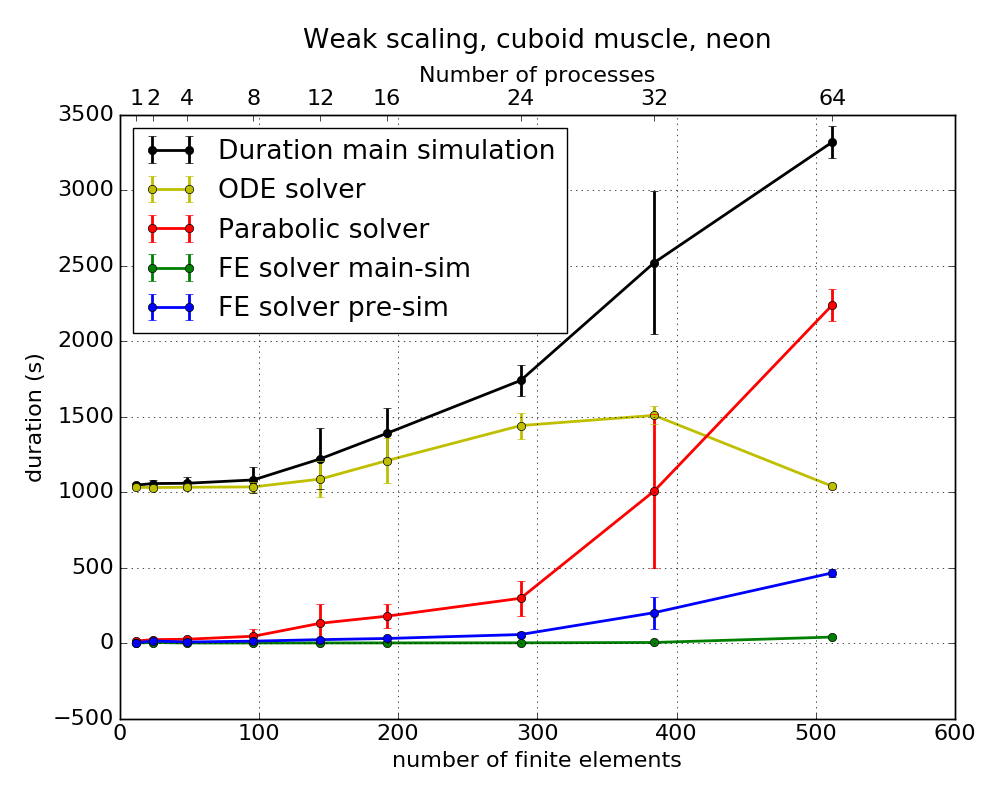
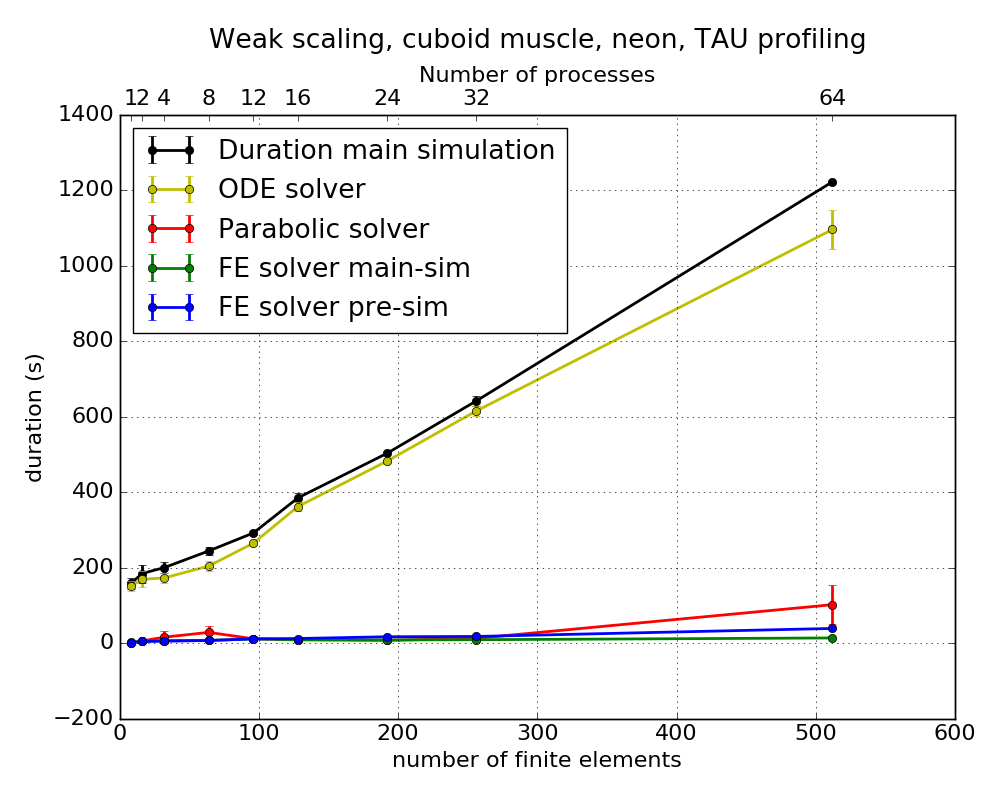
Add call to print_problem.

diff --git a/cuboid/evaluation/parallel_weak_scaling/plot.py b/cuboid/evaluation/parallel_weak_scaling/plot.py
@@ -20,7 +20,7 @@ if len(sys.argv) >= 2:
   
 remove_outlier = True
 outlier_top = 1
-outlier_bottom = 1
+outlier_bottom = 0
   
 # read csv file
 report_filename = "duration.00000.csv"
@@ -29,10 +29,14 @@ report_filename = "duration_weak_scaling3.csv"
 report_filename = "duration.helium.csv"
 report_filename = "duration.helium2.csv"
 #report_filename = "duration_weak_scaling_bwunicluster.csv"
+report_filename = "duration_neon_with_profiling.csv"
+#report_filename = "duration_neon_without_profiling.csv"
+#report_filename = "duration_neon_tau_profiling.csv"
 
-report_filename = "duration_weak_scaling4.csv" # with added 64 proc of neon
 
-caption = u'Weak scaling, cuboid muscle, neon'
+
+
+caption = u'Weak scaling, cuboid muscle, neon, TAU profiling'
 #caption = u'Weak scaling, cuboid muscle, helium'
 #caption = u'Weak scaling, cuboid muscle, bwunicluster'
 
@@ -98,10 +102,108 @@ def isint(value):
 # 28 newton n. iter
 # 29 min
 # 30 max 
+descriptions = {
+   0:  "Stamp",
+   1:  "Host",
+   2:  "NProc",
+   3:  "X",
+   4:  "Y",
+   5:  "Z",
+   6:  "F",
+   7:  "Total FE",
+   8:  "Total M",
+   9:  "End Time",
+  10:  "Dur. Init",
+  11:  "Stretch Sim",
+  12:  "Int. Init",
+  13:  "Main Sim",
+  14:  "Total",
+  15:  "Total (User)",
+  16:  "Total (System) ",
+  17:  "ODE",
+  18:  "Parabolic",
+  19:  "FE",
+  20:  "FE before Main Sim",
+  21:  "Mem. Consumption after 1st timestep",
+  22:  "Memory Consumption At End ",
+  23:  "Parabolic reason",
+  24:  "Newton reason",
+  25:  "parabolic n. iter",
+  26:  "min",
+  27:  "max",
+  28:  "newton n. iter",
+  29:  "min",
+  30:  "max",
+  31:  "1. problem solve",
+  32:  "1.1/2 pre solve",
+  33:  "problem_solver_pre_solve",
+  34:  "1.1. problem cellml solve",
+  35:  "cellml solve (*)",
+  36:  "1.1.1. cellml field2cellml update",
+  37:  "1.1.2. cellml field var get",
+  38:  "1.1.3. cellml data get",
+  39:  "1.1.4. cellml integrate",
+  40:  "cellml call rhs",
+  41:  "1.1.5. cellml data restore",
+  42:  "1.1.6. cellml field update",
+  43:  "problem_solver_post_solve",
+  44:  "1.2. dynamic linear solve (*)",
+  45:  "1.2.1 assemble equations",
+  46:  "1.2.2 get loop time",
+  47:  "1.2.3 solve",
+  48:  "1.2.4 back-substitute",
+  49:  "1.1/2 post solve",
+  50:  "1.2.3.1 dynamic mean predicted calculate",
+  51:  "1.2.3.2 dynamic assemble",
+  52:  "1.2.3.3 solve linear system",
+  53:  "1.2.3.4 update dependent field",
+  54:  "1.3.1 pre solve",
+  55:  "1.3.2 apply incremented BC",
+  56:  "1.3.3 solve",
+  57:  "1.3.3.1 static nonlinear solve (*)",
+  58:  "1.3.3.1.1 apply BC, assemble",
+  59:  "1.3.3.1.2 assemble interface conditions",
+  60:  "1.3.3.1.3 solve",
+  61:  "1.3.3.1.3.1 newton update solution vector",
+  62:  "1.3.3.1.3.2 newton Petsc solve",
+  63:  "1.3.3.1.3.3 newton diagnostics",
+  64:  "1.3.3.1.4 update residual",
+  65:  "1.3.4 post solve",
+  66:  "distributed vector cmiss DP (memory)",
+  67:  "distributed vector cmiss DP (size 1 el.)",
+  68:  "distributed vector cmiss DP (n. objects)",
+  69:  "distributed vector cmiss INTG (memory)",
+  70:  "distributed vector cmiss INTG (size 1 el.)",
+  71:  "distributed vector cmiss INTG (n. objects)",
+  72:  "distributed matrix petsc, compr. row storage diag (memory)",
+  73:  "distributed matrix petsc, compr. row storage diag (size 1 el.)",
+  74:  "distributed matrix petsc, compr. row storage diag (n. objects)",
+  75:  "distributed matrix petsc, compr. row storage, offdiag (memory)",
+  76:  "distributed matrix petsc, compr. row storage, offdiag (size 1 el.)",
+  77:  "distributed matrix petsc, compr. row storage, offdiag (n. objects)",
+  78:  "distributed matrix petsc, compr. row storage, row ind. (memory)",
+  79:  "distributed matrix petsc, compr. row storage, row ind. (size 1 el.)",
+  80:  "distributed matrix petsc, compr. row storage, row ind. (n. objects)",
+  81:  "distributed matrix petsc, compr. row storage, col. ind. (memory)",
+  82:  "distributed matrix petsc, compr. row storage, col. ind. (size 1 el.)",
+  83:  "distributed matrix petsc, compr. row storage, col. ind. (n. objects)",
+  84:  "distributed matrix petsc, compr. row storage (local to global mapping) (memory)",
+  85:  "distributed matrix petsc, compr. row storage (local to global mapping) (size 1 el.)",
+  86:  "distributed matrix petsc, compr. row storage (local to global mapping) (n. objects)",
+  87:  "distributed vector petsc (memory)",
+  88:  "distributed vector petsc (size 1 el.)",
+  89:  "distributed vector petsc (n. objects)",
+}
 
-max_index = 31
-int_indices = [2, 3, 4, 5, 6, 7, 8, 9, 21, 22, 23, 24, 25, 26, 27, 28, 29, 30]
-float_indices = [10, 11, 12, 13, 14, 15, 16, 17, 18, 19, 20]
+
+max_index = 90
+
+float_indices = range(10, 21) + range(31, 66)
+string_indices = [0, 1]
+
+# all other are int_indices
+int_indices = list(set(range(max_index)) - set(float_indices) - set(string_indices))
+
 
 def extract_data(data):
 
@@ -209,6 +311,16 @@ for key in datasets:
   fo.str_format_seconds(datasets[key]["value"][18]), 
   fo.str_format_seconds(datasets[key]["value"][19]), 
   fo.str_format_seconds(datasets[key]["value"][20]))
+  
+  
+print ""
+print "--------- timing -------------------------"
+for key in datasets:
+  print "nproc: {}".format(datasets[key]["value"][2])
+  for item in range(31, 66):
+    print "   ", str(item).ljust(2), descriptions[item].ljust(50), ": ", datasets[key]["value"][item]
+
+
   
 print ""
 print "------------- n iterations -------------------------------------------"
@@ -334,6 +446,76 @@ ax2.set_xlabel(r"Number of processes")
 plt.title(caption, y=1.1)
 plt.tight_layout()
 plt.savefig(output_path+SCENARIO+'_weak_scaling.png')
+
+######################
+# plot weak scaling with more detailled timing
+plt.figure(3, figsize=(12,10))
+# 31 - 65
+# 17 ODE
+# 18 Parabolic
+# 19 FE
+# 20 FE before Main Sim
+
+plotkey_subset = range(17, 21) + range(31, 66)
+plotkey_subset = [39, 44, 51, 62]
+plotkey_subset = [44, 51, 62]
+
+plotdata = dict()
+xdata = Set()
+plotkeys = Set()
+
+for key in datasets:
+  
+  dataset = datasets[key]['value']
+  variances = datasets[key]['variance']
+  nproc = dataset[2]
+  nFE = dataset[7]
+  
+  for plotkey in plotkey_subset:
+    
+    if plotkey not in plotdata:
+      plotdata[plotkey] = dict()
+      plotdata[plotkey]['value'] = collections.OrderedDict()
+      plotdata[plotkey]['variance'] = collections.OrderedDict()
+      
+    xvalue = nFE
+    yvalue = dataset[plotkey]
+    yvalue_variance = variances[plotkey]
+      
+    plotdata[plotkey]['value'][xvalue] = yvalue
+    plotdata[plotkey]['variance'][xvalue] = yvalue_variance
+    xdata.add(xvalue)
+    plotkeys.add(plotkey)
+
+xlist = list(xdata)
+
+
+for plotkey in plotkeys:
+    
+  xlist = list(plotdata[plotkey]["value"])
+  ylist = [y for y in plotdata[plotkey]["value"].values()]
+  yerr = [y for y in plotdata[plotkey]['variance'].values()]
+
+  plt.errorbar(xlist, ylist, yerr=yerr, label=descriptions[plotkey])
+  
+ax = plt.gca()
+#ax.set_xscale('log', basey=2) 
+#ax.set_yscale('log', basey=10) 
+#ax.set_xticks([1,2,4,8,12,16,24,32,64])
+plt.xlabel('number of finite elements')
+plt.ylabel('duration (s)')
+plt.legend(loc='best')
+plt.grid(which='both')
+
+ax2 = ax.twiny()
+ax2.set_xlim(ax.get_xlim())
+ax2.set_xticks(xlist)
+ax2.set_xticklabels([1,2,4,8,12,16,24,32,64])
+ax2.set_xlabel(r"Number of processes")
+
+plt.title(caption, y=1.1)
+plt.tight_layout()
+plt.savefig(output_path+SCENARIO+'_weak_scaling_timing.png')
 
 if show_plots:
   plt.show()
